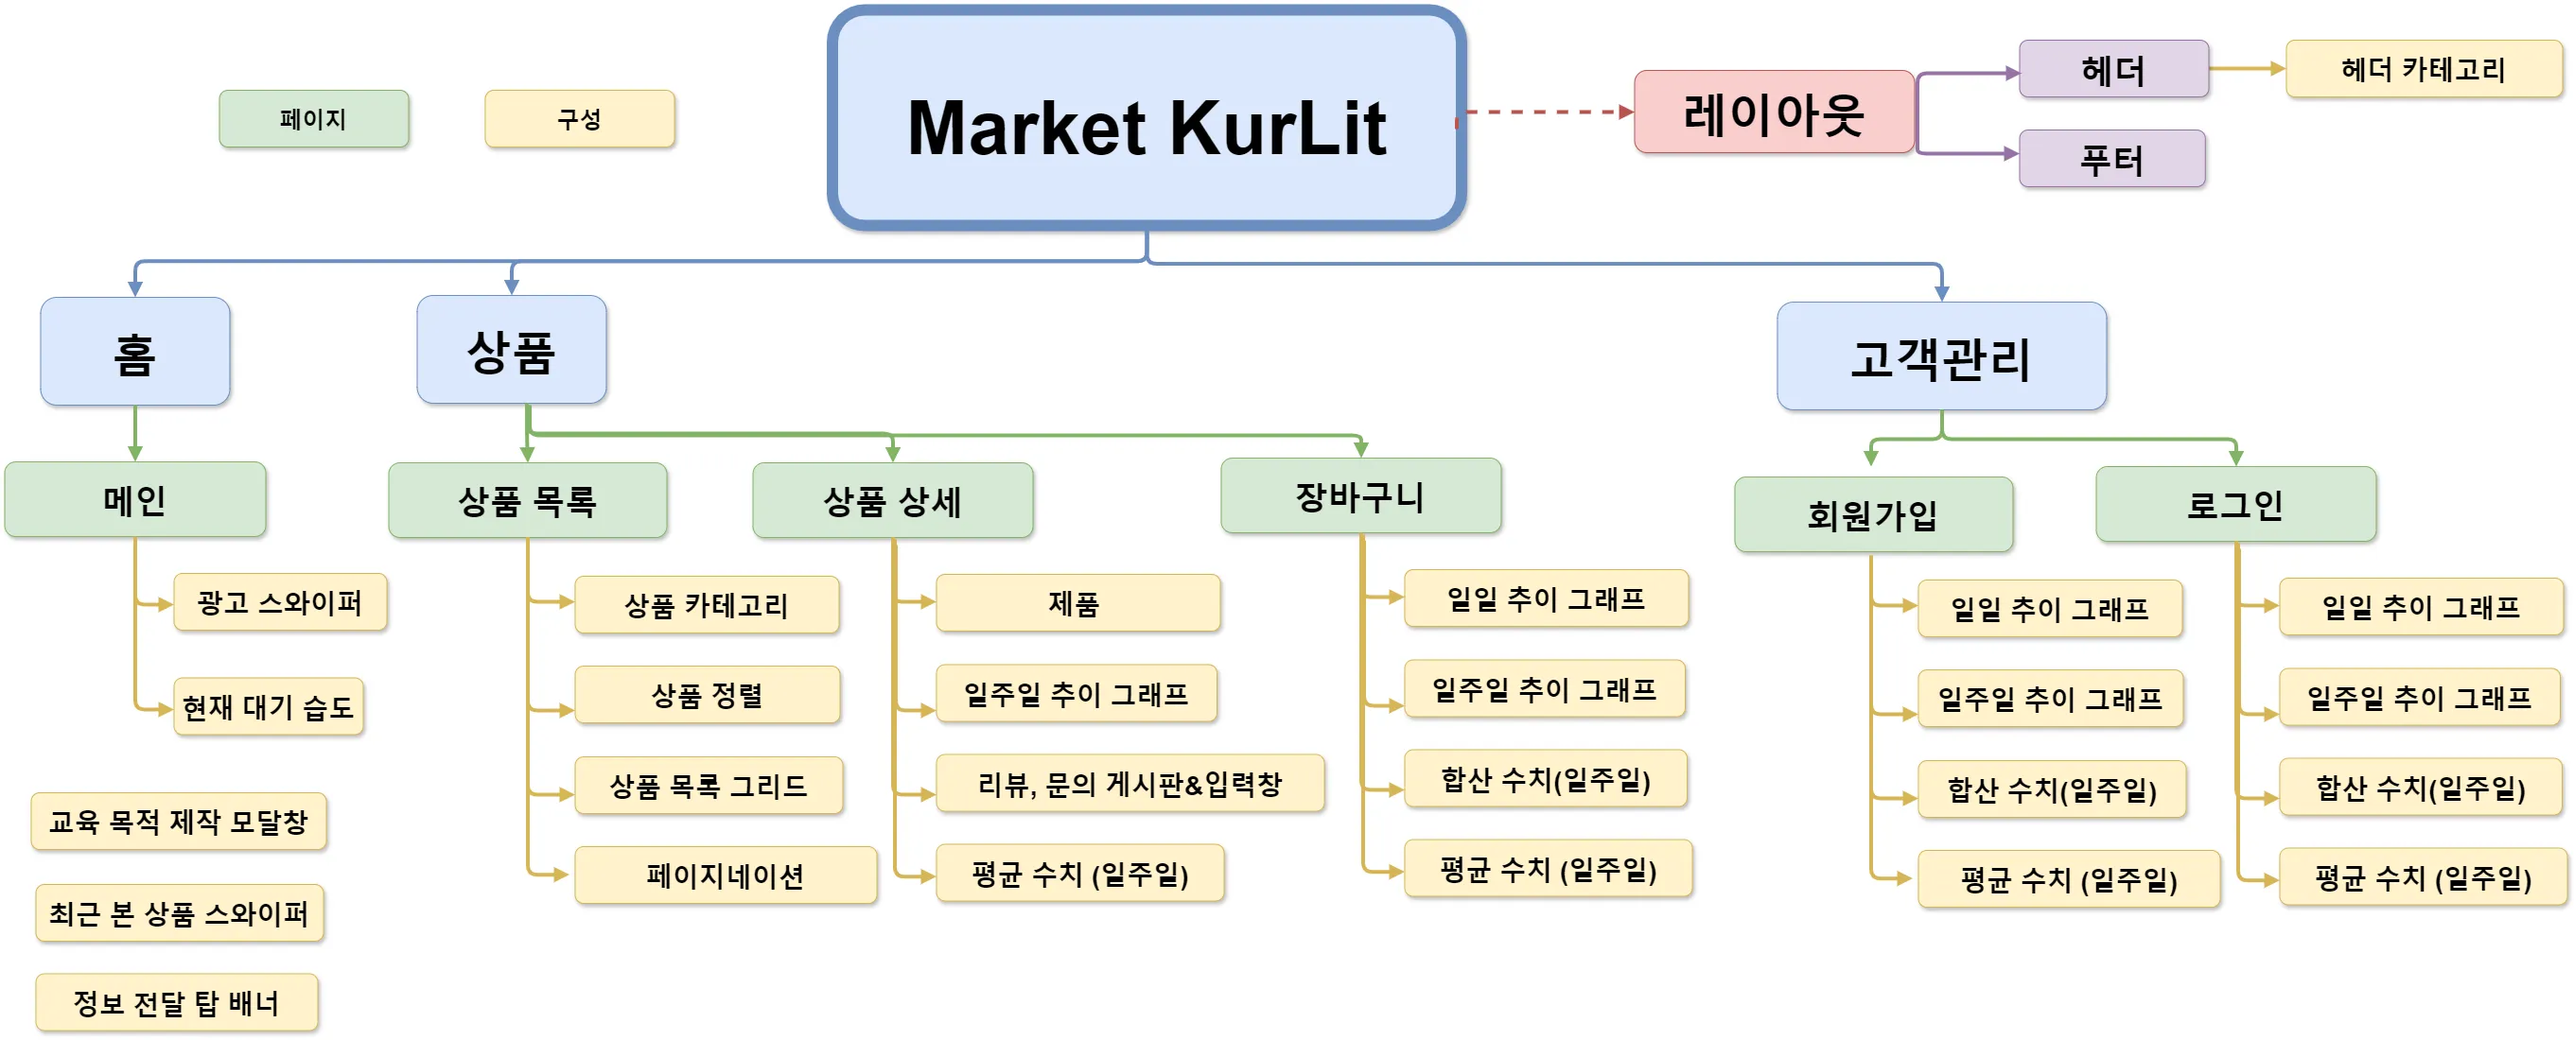
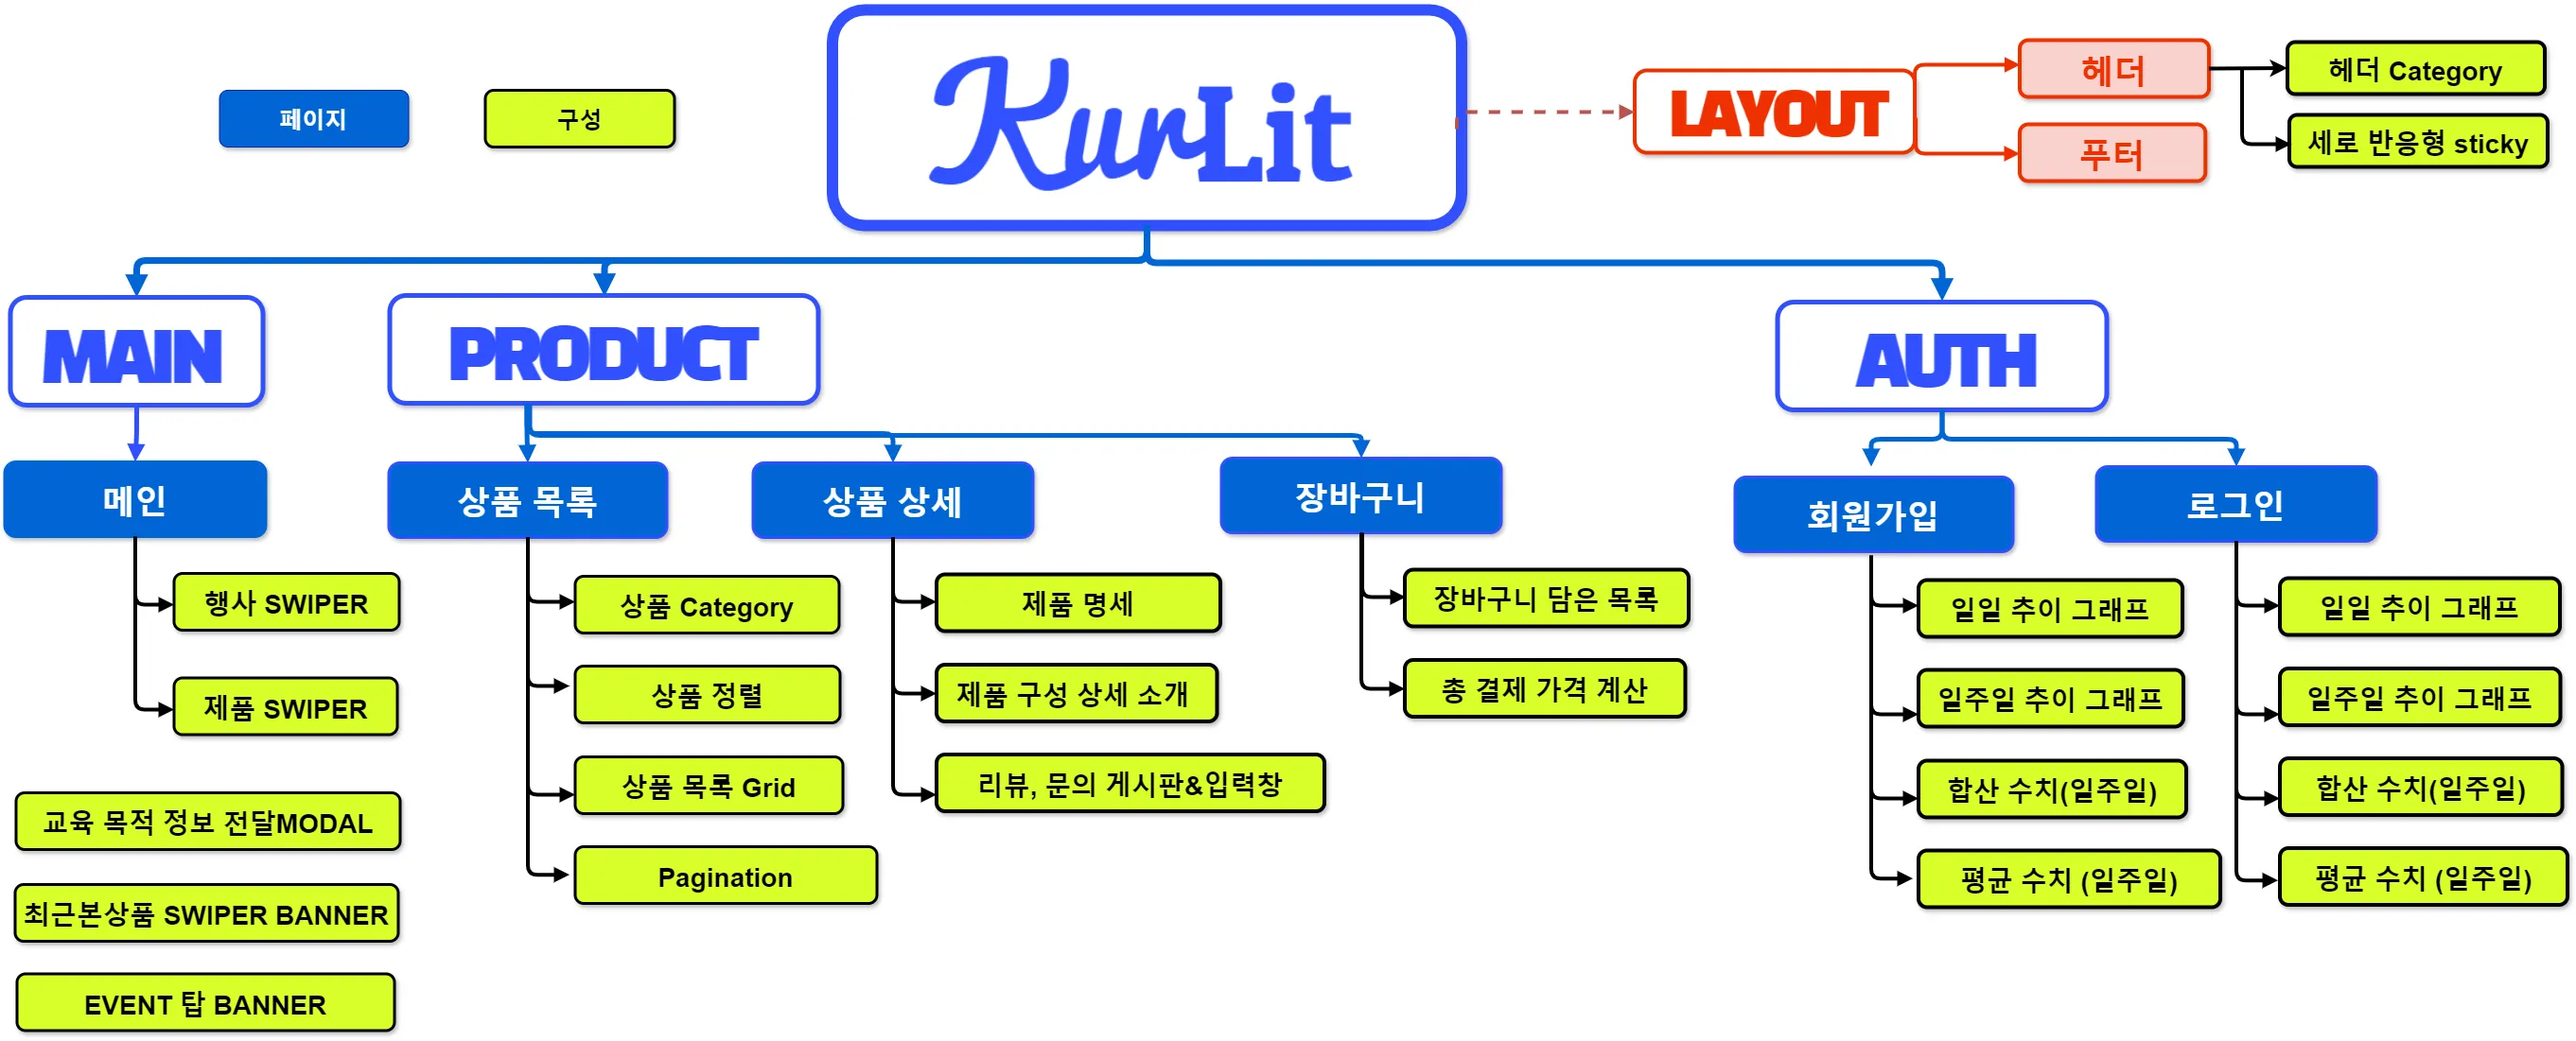
[Docs] 이미지 변경
- 사이트맵 이미지 변경

Resolved #124

diff --git a/README.md b/README.md
@@ -127,7 +127,7 @@
 
 ## 🖥 결과물 🖥 살펴보기
 
-### 📚 사이트 요약
+### 📚 사이트 구성
 
 ![Simple-Site-Map](./public/readme/simple-site-map.webp)
 
